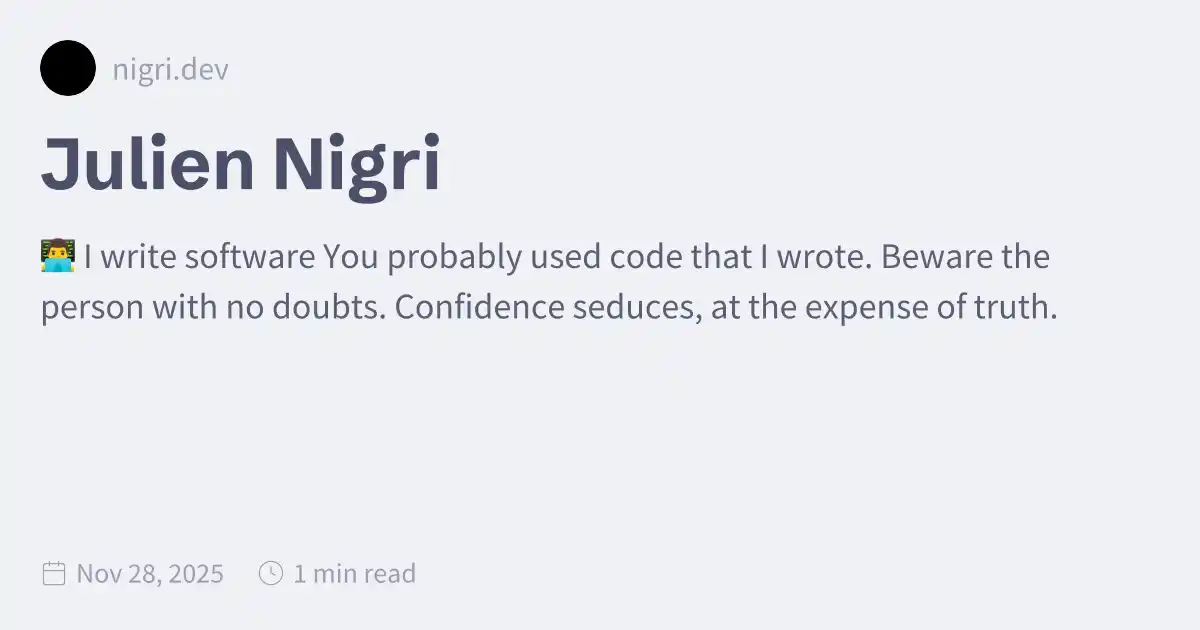
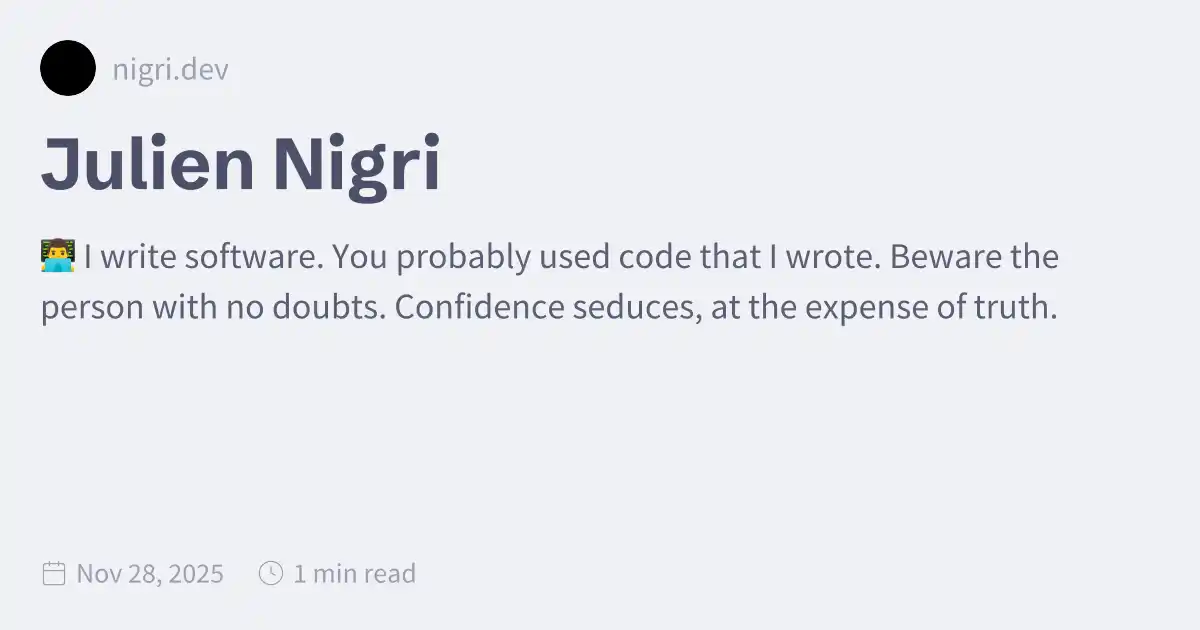
Quartz sync: Nov 29, 2025, 12:41 AM

Changed region(s): [[0.2467, 0.3921, 0.8942, 0.4524]]

diff --git a/public/index.html b/public/index.html
@@ -1,5 +1,5 @@
 <!DOCTYPE html>
-<html lang="en"><head><title>Julien Nigri</title><meta charset="utf-8"/><link rel="preconnect" href="https://fonts.googleapis.com"/><link rel="preconnect" href="https://fonts.gstatic.com"/><link rel="stylesheet" href="https://fonts.googleapis.com/css2?family=Schibsted Grotesk:wght@400;700&amp;family=Source Sans Pro:ital,wght@0,400;0,600;1,400;1,600&amp;family=IBM Plex Mono:wght@400;600&amp;display=swap"/><link rel="preconnect" href="https://cdnjs.cloudflare.com" crossorigin="anonymous"/><meta name="viewport" content="width=device-width, initial-scale=1.0"/><meta name="og:site_name" content="Essays"/><meta property="og:title" content="Julien Nigri"/><meta property="og:type" content="website"/><meta name="twitter:card" content="summary_large_image"/><meta name="twitter:title" content="Julien Nigri"/><meta name="twitter:description" content="👨💻 I write software You probably used code that I wrote. Beware the person with no doubts. Confidence seduces, at the expense of truth."/><meta property="og:description" content="👨💻 I write software You probably used code that I wrote. Beware the person with no doubts. Confidence seduces, at the expense of truth."/><meta property="og:image:alt" content="👨💻 I write software You probably used code that I wrote. Beware the person with no doubts. Confidence seduces, at the expense of truth."/><meta property="twitter:domain" content="nigri.dev"/><meta property="og:url" content="https://nigri.dev/index"/><meta property="twitter:url" content="https://nigri.dev/index"/><link rel="icon" href="./static/icon.png"/><meta name="description" content="👨💻 I write software You probably used code that I wrote. Beware the person with no doubts. Confidence seduces, at the expense of truth."/><meta name="generator" content="Quartz"/><link href="./index.css" rel="stylesheet" type="text/css" spa-preserve/><style>.expand-button {
+<html lang="en"><head><title>Julien Nigri</title><meta charset="utf-8"/><link rel="preconnect" href="https://fonts.googleapis.com"/><link rel="preconnect" href="https://fonts.gstatic.com"/><link rel="stylesheet" href="https://fonts.googleapis.com/css2?family=Schibsted Grotesk:wght@400;700&amp;family=Source Sans Pro:ital,wght@0,400;0,600;1,400;1,600&amp;family=IBM Plex Mono:wght@400;600&amp;display=swap"/><link rel="preconnect" href="https://cdnjs.cloudflare.com" crossorigin="anonymous"/><meta name="viewport" content="width=device-width, initial-scale=1.0"/><meta name="og:site_name" content="Essays"/><meta property="og:title" content="Julien Nigri"/><meta property="og:type" content="website"/><meta name="twitter:card" content="summary_large_image"/><meta name="twitter:title" content="Julien Nigri"/><meta name="twitter:description" content="👨💻 I write software. You probably used code that I wrote. Beware the person with no doubts. Confidence seduces, at the expense of truth."/><meta property="og:description" content="👨💻 I write software. You probably used code that I wrote. Beware the person with no doubts. Confidence seduces, at the expense of truth."/><meta property="og:image:alt" content="👨💻 I write software. You probably used code that I wrote. Beware the person with no doubts. Confidence seduces, at the expense of truth."/><meta property="twitter:domain" content="nigri.dev"/><meta property="og:url" content="https://nigri.dev/index"/><meta property="twitter:url" content="https://nigri.dev/index"/><link rel="icon" href="./static/icon.png"/><meta name="description" content="👨💻 I write software. You probably used code that I wrote. Beware the person with no doubts. Confidence seduces, at the expense of truth."/><meta name="generator" content="Quartz"/><link href="./index.css" rel="stylesheet" type="text/css" spa-preserve/><style>.expand-button {
   position: absolute;
   display: flex;
   float: right;
@@ -116,7 +116,7 @@ pre:hover > .expand-button {
   padding: 0 12px;
   font-size: 14px;
 }
[2 lines of base64/hex data omitted]
 <p><em>You probably used code that I wrote.</em></p>
 <p>Beware the person with no doubts.<br/>
 Confidence seduces, at the expense of truth.</p></article><hr/><div class="page-footer"></div></div><div class="right sidebar"></div><div class="spacer"></div></div></div></body><script type="application/javascript">function n(){let t=this.parentElement;t.classList.toggle("is-collapsed");let e=t.getElementsByClassName("callout-content")[0];if(!e)return;let l=t.classList.contains("is-collapsed");e.style.gridTemplateRows=l?"0fr":"1fr"}function c(){let t=document.getElementsByClassName("callout is-collapsible");for(let e of t){let l=e.getElementsByClassName("callout-title")[0],s=e.getElementsByClassName("callout-content")[0];if(!l||!s)continue;l.addEventListener("click",n),window.addCleanup(()=>l.removeEventListener("click",n));let o=e.classList.contains("is-collapsed");s.style.gridTemplateRows=o?"0fr":"1fr"}}document.addEventListener("nav",c);

diff --git a/public/How-to-write-tech-doc.html b/public/How-to-write-tech-doc.html
@@ -1,0 +1,132 @@
+<!DOCTYPE html>
+<html lang="en"><head><title>How to write tech doc?</title><meta charset="utf-8"/><link rel="preconnect" href="https://fonts.googleapis.com"/><link rel="preconnect" href="https://fonts.gstatic.com"/><link rel="stylesheet" href="https://fonts.googleapis.com/css2?family=Schibsted Grotesk:wght@400;700&amp;family=Source Sans Pro:ital,wght@0,400;0,600;1,400;1,600&amp;family=IBM Plex Mono:wght@400;600&amp;display=swap"/><link rel="preconnect" href="https://cdnjs.cloudflare.com" crossorigin="anonymous"/><meta name="viewport" content="width=device-width, initial-scale=1.0"/><meta name="og:site_name" content="Essays"/><meta property="og:title" content="How to write tech doc?"/><meta property="og:type" content="website"/><meta name="twitter:card" content="summary_large_image"/><meta name="twitter:title" content="How to write tech doc?"/><meta name="twitter:description" content="Use simple words. Write small sentences. Don’t use acronyms."/><meta property="og:description" content="Use simple words. Write small sentences. Don’t use acronyms."/><meta property="og:image:alt" content="Use simple words. Write small sentences. Don’t use acronyms."/><meta property="twitter:domain" content="nigri.dev"/><meta property="og:url" content="https://nigri.dev/How-to-write-tech-doc"/><meta property="twitter:url" content="https://nigri.dev/How-to-write-tech-doc"/><link rel="icon" href="./static/icon.png"/><meta name="description" content="Use simple words. Write small sentences. Don’t use acronyms."/><meta name="generator" content="Quartz"/><link href="./index.css" rel="stylesheet" type="text/css" spa-preserve/><style>.expand-button {
+  position: absolute;
+  display: flex;
+  float: right;
+  padding: 0.4rem;
+  margin: 0.3rem;
+  right: 0;
+  color: var(--gray);
+  border-color: var(--dark);
+  background-color: var(--light);
+  border: 1px solid;
+  border-radius: 5px;
+  opacity: 0;
+  transition: 0.2s;
+}
+.expand-button > svg {
+  fill: var(--light);
+  filter: contrast(0.3);
+}
+.expand-button:hover {
+  cursor: pointer;
+  border-color: var(--secondary);
+}
+.expand-button:focus {
+  outline: 0;
+}
+
+pre:hover > .expand-button {
+  opacity: 1;
+  transition: 0.2s;
+}
+
+#mermaid-container {
+  position: fixed;
+  contain: layout;
+  z-index: 999;
+  left: 0;
+  top: 0;
+  width: 100vw;
+  height: 100vh;
+  overflow: hidden;
+  display: none;
+  backdrop-filter: blur(4px);
+  background: rgba(0, 0, 0, 0.5);
+}
+#mermaid-container.active {
+  display: inline-block;
+}
+#mermaid-container > #mermaid-space {
+  border: 1px solid var(--lightgray);
+  background-color: var(--light);
+  border-radius: 5px;
+  position: fixed;
+  top: 50%;
+  left: 50%;
+  transform: translate(-50%, -50%);
+  height: 80vh;
+  width: 80vw;
+  overflow: hidden;
+}
+#mermaid-container > #mermaid-space > .mermaid-content {
+  padding: 2rem;
+  position: relative;
+  transform-origin: 0 0;
+  transition: transform 0.1s ease;
+  overflow: visible;
+  min-height: 200px;
+  min-width: 200px;
+}
+#mermaid-container > #mermaid-space > .mermaid-content pre {
+  margin: 0;
+  border: none;
+}
+#mermaid-container > #mermaid-space > .mermaid-content svg {
+  max-width: none;
+  height: auto;
+}
+#mermaid-container > #mermaid-space > .mermaid-controls {
+  position: absolute;
+  bottom: 20px;
+  right: 20px;
+  display: flex;
+  gap: 8px;
+  padding: 8px;
+  background: var(--light);
+  border: 1px solid var(--lightgray);
+  border-radius: 6px;
+  box-shadow: 0 2px 4px rgba(0, 0, 0, 0.1);
+  z-index: 2;
+}
+#mermaid-container > #mermaid-space > .mermaid-controls .mermaid-control-button {
+  display: flex;
+  align-items: center;
+  justify-content: center;
+  width: 32px;
+  height: 32px;
+  padding: 0;
+  border: 1px solid var(--lightgray);
+  background: var(--light);
+  color: var(--dark);
+  border-radius: 4px;
+  cursor: pointer;
+  font-size: 16px;
+  font-family: var(--bodyFont);
+  transition: all 0.2s ease;
+}
+#mermaid-container > #mermaid-space > .mermaid-controls .mermaid-control-button:hover {
+  background: var(--lightgray);
+}
+#mermaid-container > #mermaid-space > .mermaid-controls .mermaid-control-button:active {
+  transform: translateY(1px);
+}
+#mermaid-container > #mermaid-space > .mermaid-controls .mermaid-control-button:nth-child(2) {
+  width: auto;
+  padding: 0 12px;
+  font-size: 14px;
+}
[1 lines of base64/hex data omitted]
+Write small sentences.</p>
+<p>Don’t use acronyms.</p>
+<p>Use numbers:<br/>
+“A lot of errors” <span>→</span> “42 errors&quot;<br/>
+&quot;A small amount of users” <span>→</span> “5 users”</p>
+<p>Lose useless adjectives:<br/>
+“A very important message” <span>→</span> “An important message”</p>
+<p>Order sections by most important first.</p>
+<p>Keep it short.<br/>
+Add as many appendix as you want.<br/>
+Discuss trade-offs in appendices.</p></article><hr/><div class="page-footer"></div></div><div class="right sidebar"></div><div class="spacer"></div></div></div></body><script type="application/javascript">function n(){let t=this.parentElement;t.classList.toggle("is-collapsed");let e=t.getElementsByClassName("callout-content")[0];if(!e)return;let l=t.classList.contains("is-collapsed");e.style.gridTemplateRows=l?"0fr":"1fr"}function c(){let t=document.getElementsByClassName("callout is-collapsible");for(let e of t){let l=e.getElementsByClassName("callout-title")[0],s=e.getElementsByClassName("callout-content")[0];if(!l||!s)continue;l.addEventListener("click",n),window.addCleanup(()=>l.removeEventListener("click",n));let o=e.classList.contains("is-collapsed");s.style.gridTemplateRows=o?"0fr":"1fr"}}document.addEventListener("nav",c);
+</script><script type="module">function f(i,e){if(!i)return;function r(o){o.target===this&&(o.preventDefault(),o.stopPropagation(),e())}function t(o){o.key.startsWith("Esc")&&(o.preventDefault(),e())}i?.addEventListener("click",r),window.addCleanup(()=>i?.removeEventListener("click",r)),document.addEventListener("keydown",t),window.addCleanup(()=>document.removeEventListener("keydown",t))}function y(i){for(;i.firstChild;)i.removeChild(i.firstChild)}var h=class{constructor(e,r){this.container=e;this.content=r;this.setupEventListeners(),this.setupNavigationControls(),this.resetTransform()}isDragging=!1;startPan={x:0,y:0};currentPan={x:0,y:0};scale=1;MIN_SCALE=.5;MAX_SCALE=3;cleanups=[];setupEventListeners(){let e=this.onMouseDown.bind(this),r=this.onMouseMove.bind(this),t=this.onMouseUp.bind(this),o=this.resetTransform.bind(this);this.container.addEventListener("mousedown",e),document.addEventListener("mousemove",r),document.addEventListener("mouseup",t),window.addEventListener("resize",o),this.cleanups.push(()=>this.container.removeEventListener("mousedown",e),()=>document.removeEventListener("mousemove",r),()=>document.removeEventListener("mouseup",t),()=>window.removeEventListener("resize",o))}cleanup(){for(let e of this.cleanups)e()}setupNavigationControls(){let e=document.createElement("div");e.className="mermaid-controls";let r=this.createButton("+",()=>this.zoom(.1)),t=this.createButton("-",()=>this.zoom(-.1)),o=this.createButton("Reset",()=>this.resetTransform());e.appendChild(t),e.appendChild(o),e.appendChild(r),this.container.appendChild(e)}createButton(e,r){let t=document.createElement("button");return t.textContent=e,t.className="mermaid-control-button",t.addEventListener("click",r),window.addCleanup(()=>t.removeEventListener("click",r)),t}onMouseDown(e){e.button===0&&(this.isDragging=!0,this.startPan={x:e.clientX-this.currentPan.x,y:e.clientY-this.currentPan.y},this.container.style.cursor="grabbing")}onMouseMove(e){this.isDragging&&(e.preventDefault(),this.currentPan={x:e.clientX-this.startPan.x,y:e.clientY-this.startPan.y},this.updateTransform())}onMouseUp(){this.isDragging=!1,this.container.style.cursor="grab"}zoom(e){let r=Math.min(Math.max(this.scale+e,this.MIN_SCALE),this.MAX_SCALE),t=this.content.getBoundingClientRect(),o=t.width/2,n=t.height/2,c=r-this.scale;this.currentPan.x-=o*c,this.currentPan.y-=n*c,this.scale=r,this.updateTransform()}updateTransform(){this.content.style.transform=`translate(${this.currentPan.x}px, ${this.currentPan.y}px) scale(${this.scale})`}resetTransform(){this.scale=1;let e=this.content.querySelector("svg");this.currentPan={x:e.getBoundingClientRect().width/2,y:e.getBoundingClientRect().height/2},this.updateTransform()}},C=["--secondary","--tertiary","--gray","--light","--lightgray","--highlight","--dark","--darkgray","--codeFont"],E;document.addEventListener("nav",async()=>{let e=document.querySelector(".center").querySelectorAll("code.mermaid");if(e.length===0)return;E||=await import("https://cdnjs.cloudflare.com/ajax/libs/mermaid/11.4.0/mermaid.esm.min.mjs");let r=E.default,t=new WeakMap;for(let n of e)t.set(n,n.innerText);async function o(){for(let s of e){s.removeAttribute("data-processed");let a=t.get(s);a&&(s.innerHTML=a)}let n=C.reduce((s,a)=>(s[a]=window.getComputedStyle(document.documentElement).getPropertyValue(a),s),{}),c=document.documentElement.getAttribute("saved-theme")==="dark";r.initialize({startOnLoad:!1,securityLevel:"loose",theme:c?"dark":"base",themeVariables:{fontFamily:n["--codeFont"],primaryColor:n["--light"],primaryTextColor:n["--darkgray"],primaryBorderColor:n["--tertiary"],lineColor:n["--darkgray"],secondaryColor:n["--secondary"],tertiaryColor:n["--tertiary"],clusterBkg:n["--light"],edgeLabelBackground:n["--highlight"]}}),await r.run({nodes:e})}await o(),document.addEventListener("themechange",o),window.addCleanup(()=>document.removeEventListener("themechange",o));for(let n=0;n<e.length;n++){let v=function(){let g=l.querySelector("#mermaid-space"),m=l.querySelector(".mermaid-content");if(!m)return;y(m);let w=c.querySelector("svg").cloneNode(!0);m.appendChild(w),l.classList.add("active"),g.style.cursor="grab",u=new h(g,m)},M=function(){l.classList.remove("active"),u?.cleanup(),u=null},c=e[n],s=c.parentElement,a=s.querySelector(".clipboard-button"),d=s.querySelector(".expand-button"),p=window.getComputedStyle(a),L=a.offsetWidth+parseFloat(p.marginLeft||"0")+parseFloat(p.marginRight||"0");d.style.right=`calc(${L}px + 0.3rem)`,s.prepend(d);let l=s.querySelector("#mermaid-container");if(!l)return;let u=null;d.addEventListener("click",v),f(l,M),window.addCleanup(()=>{u?.cleanup(),d.removeEventListener("click",v)})}});
+</script><script src="https://cdn.jsdelivr.net/npm/katex@0.16.11/dist/contrib/copy-tex.min.js" type="application/javascript"></script><script src="./postscript.js" type="module"></script></html>

diff --git a/content/index.md b/content/index.md
@@ -1,7 +1,7 @@
 ---
 title: Julien Nigri
 ---
-👨💻 I write software
+👨💻 I write software.
 
 *You probably used code that I wrote.*
 
